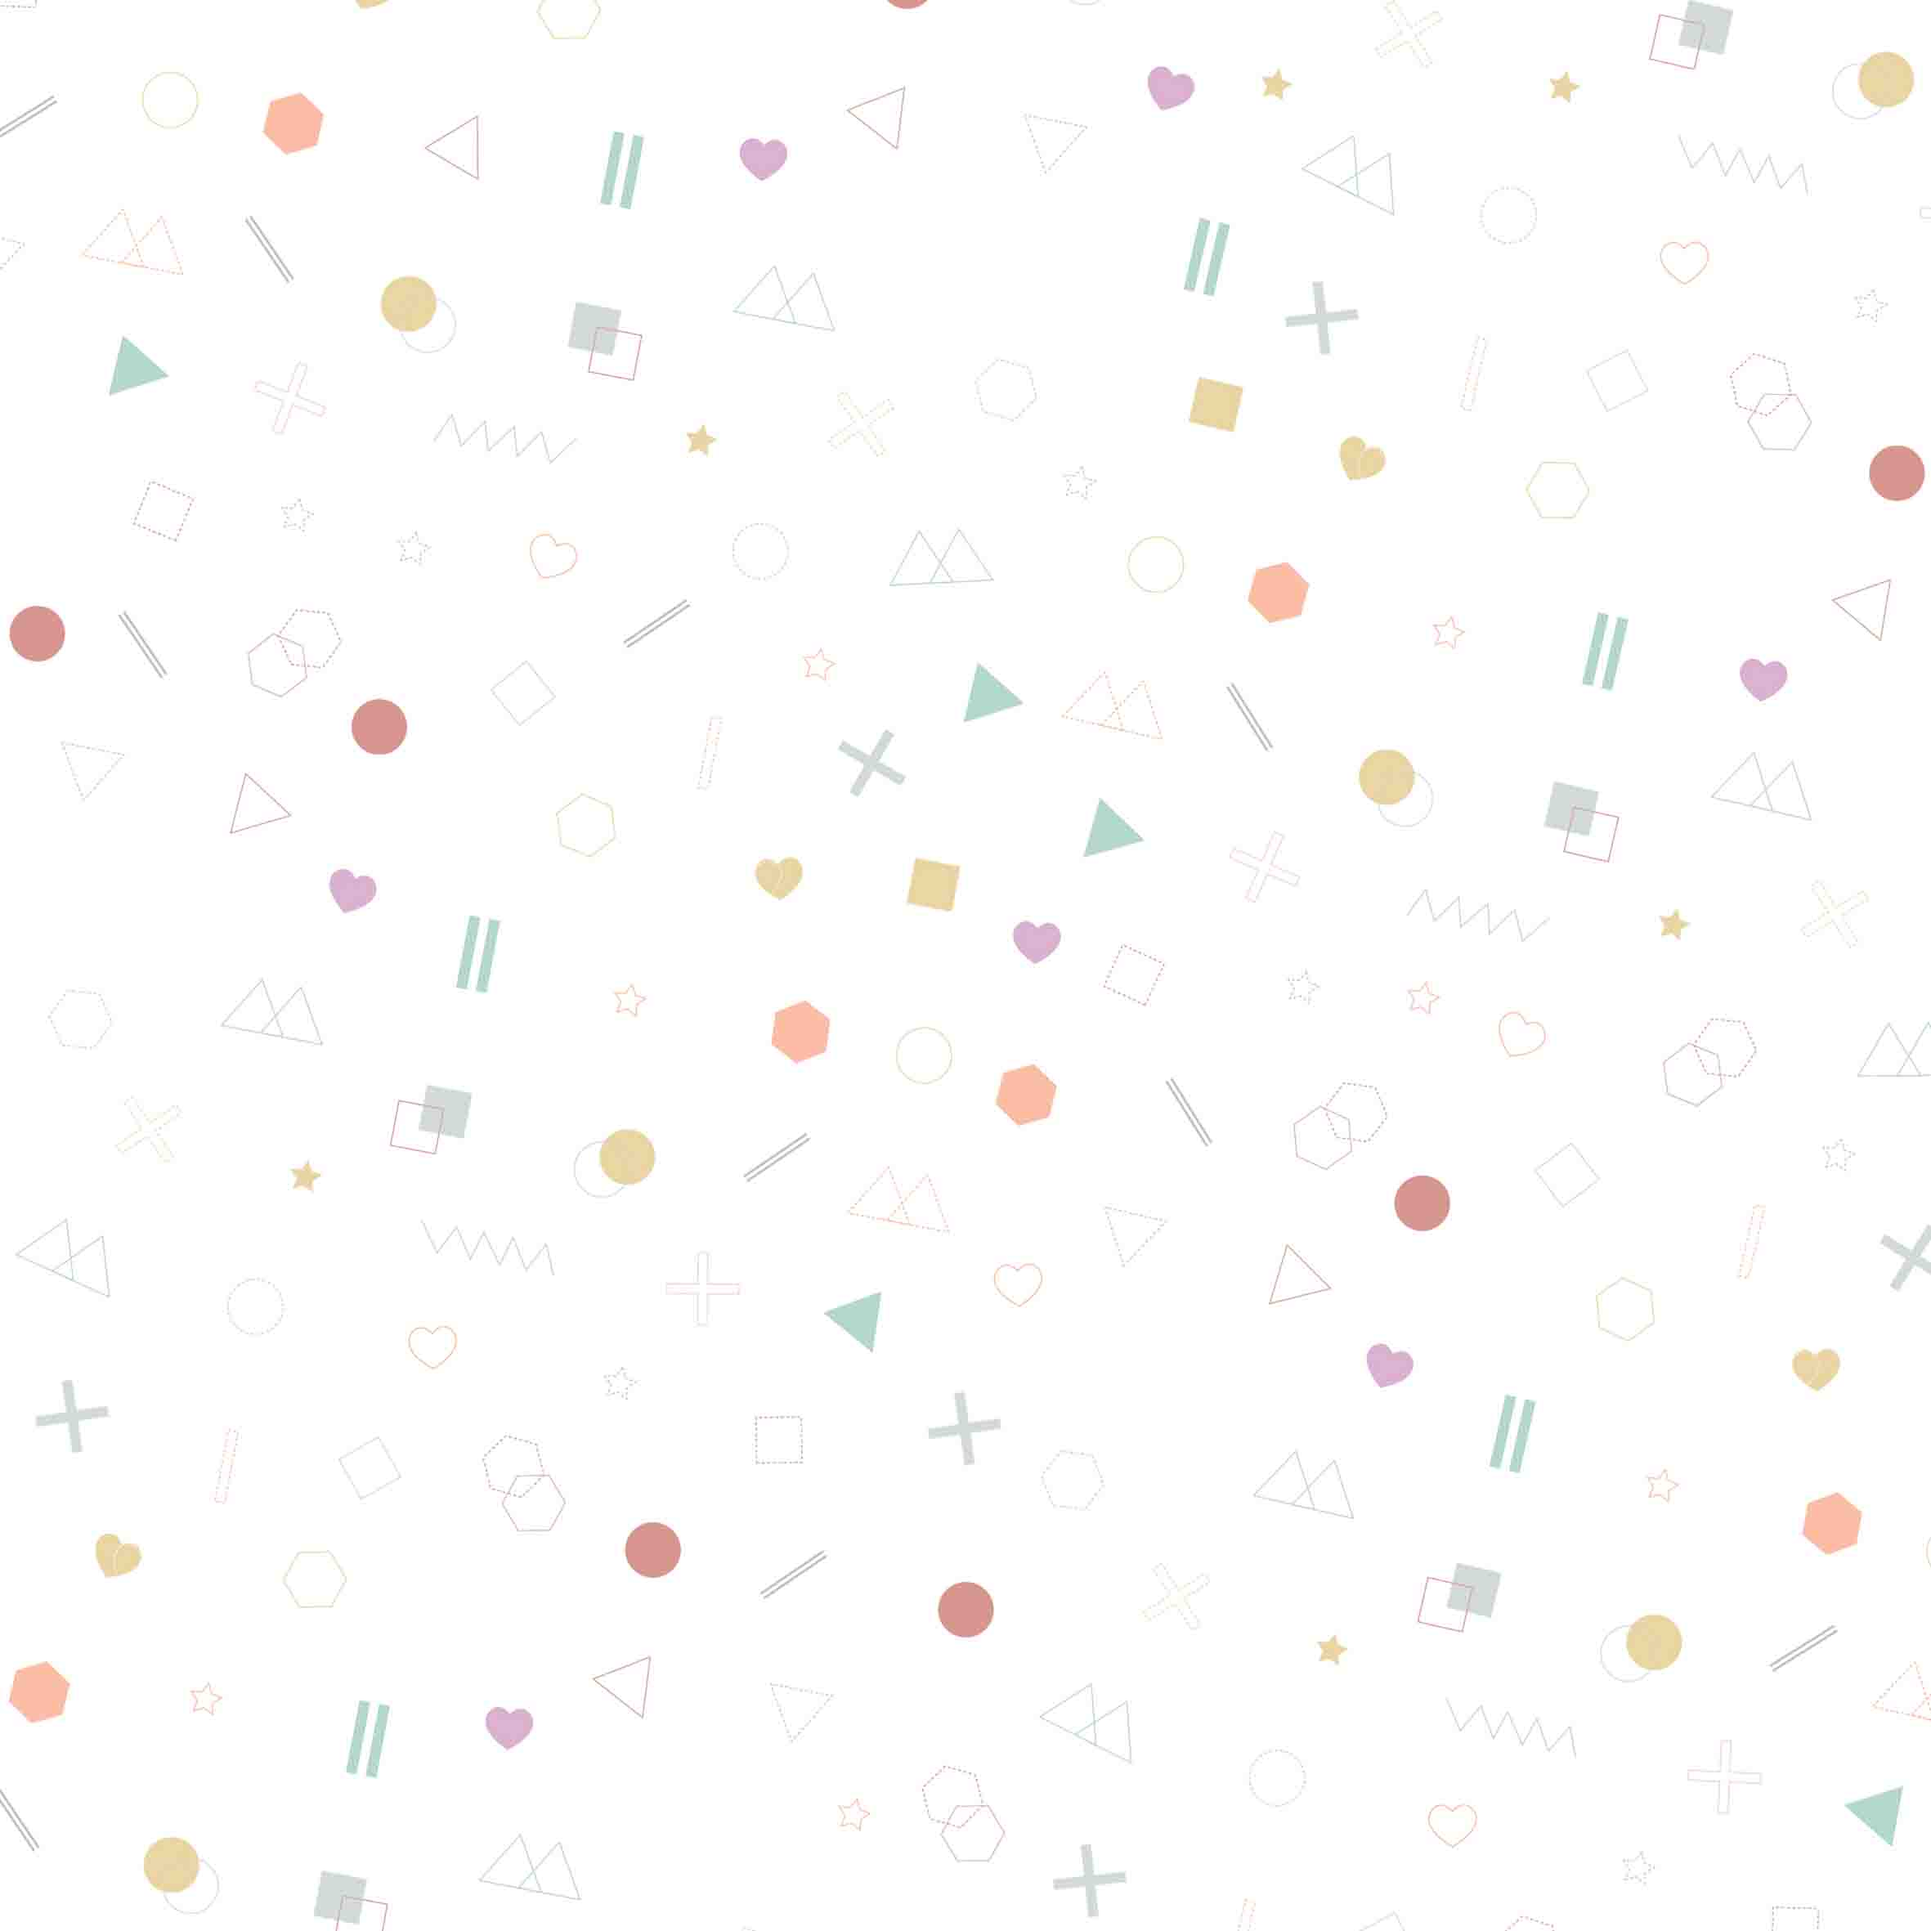
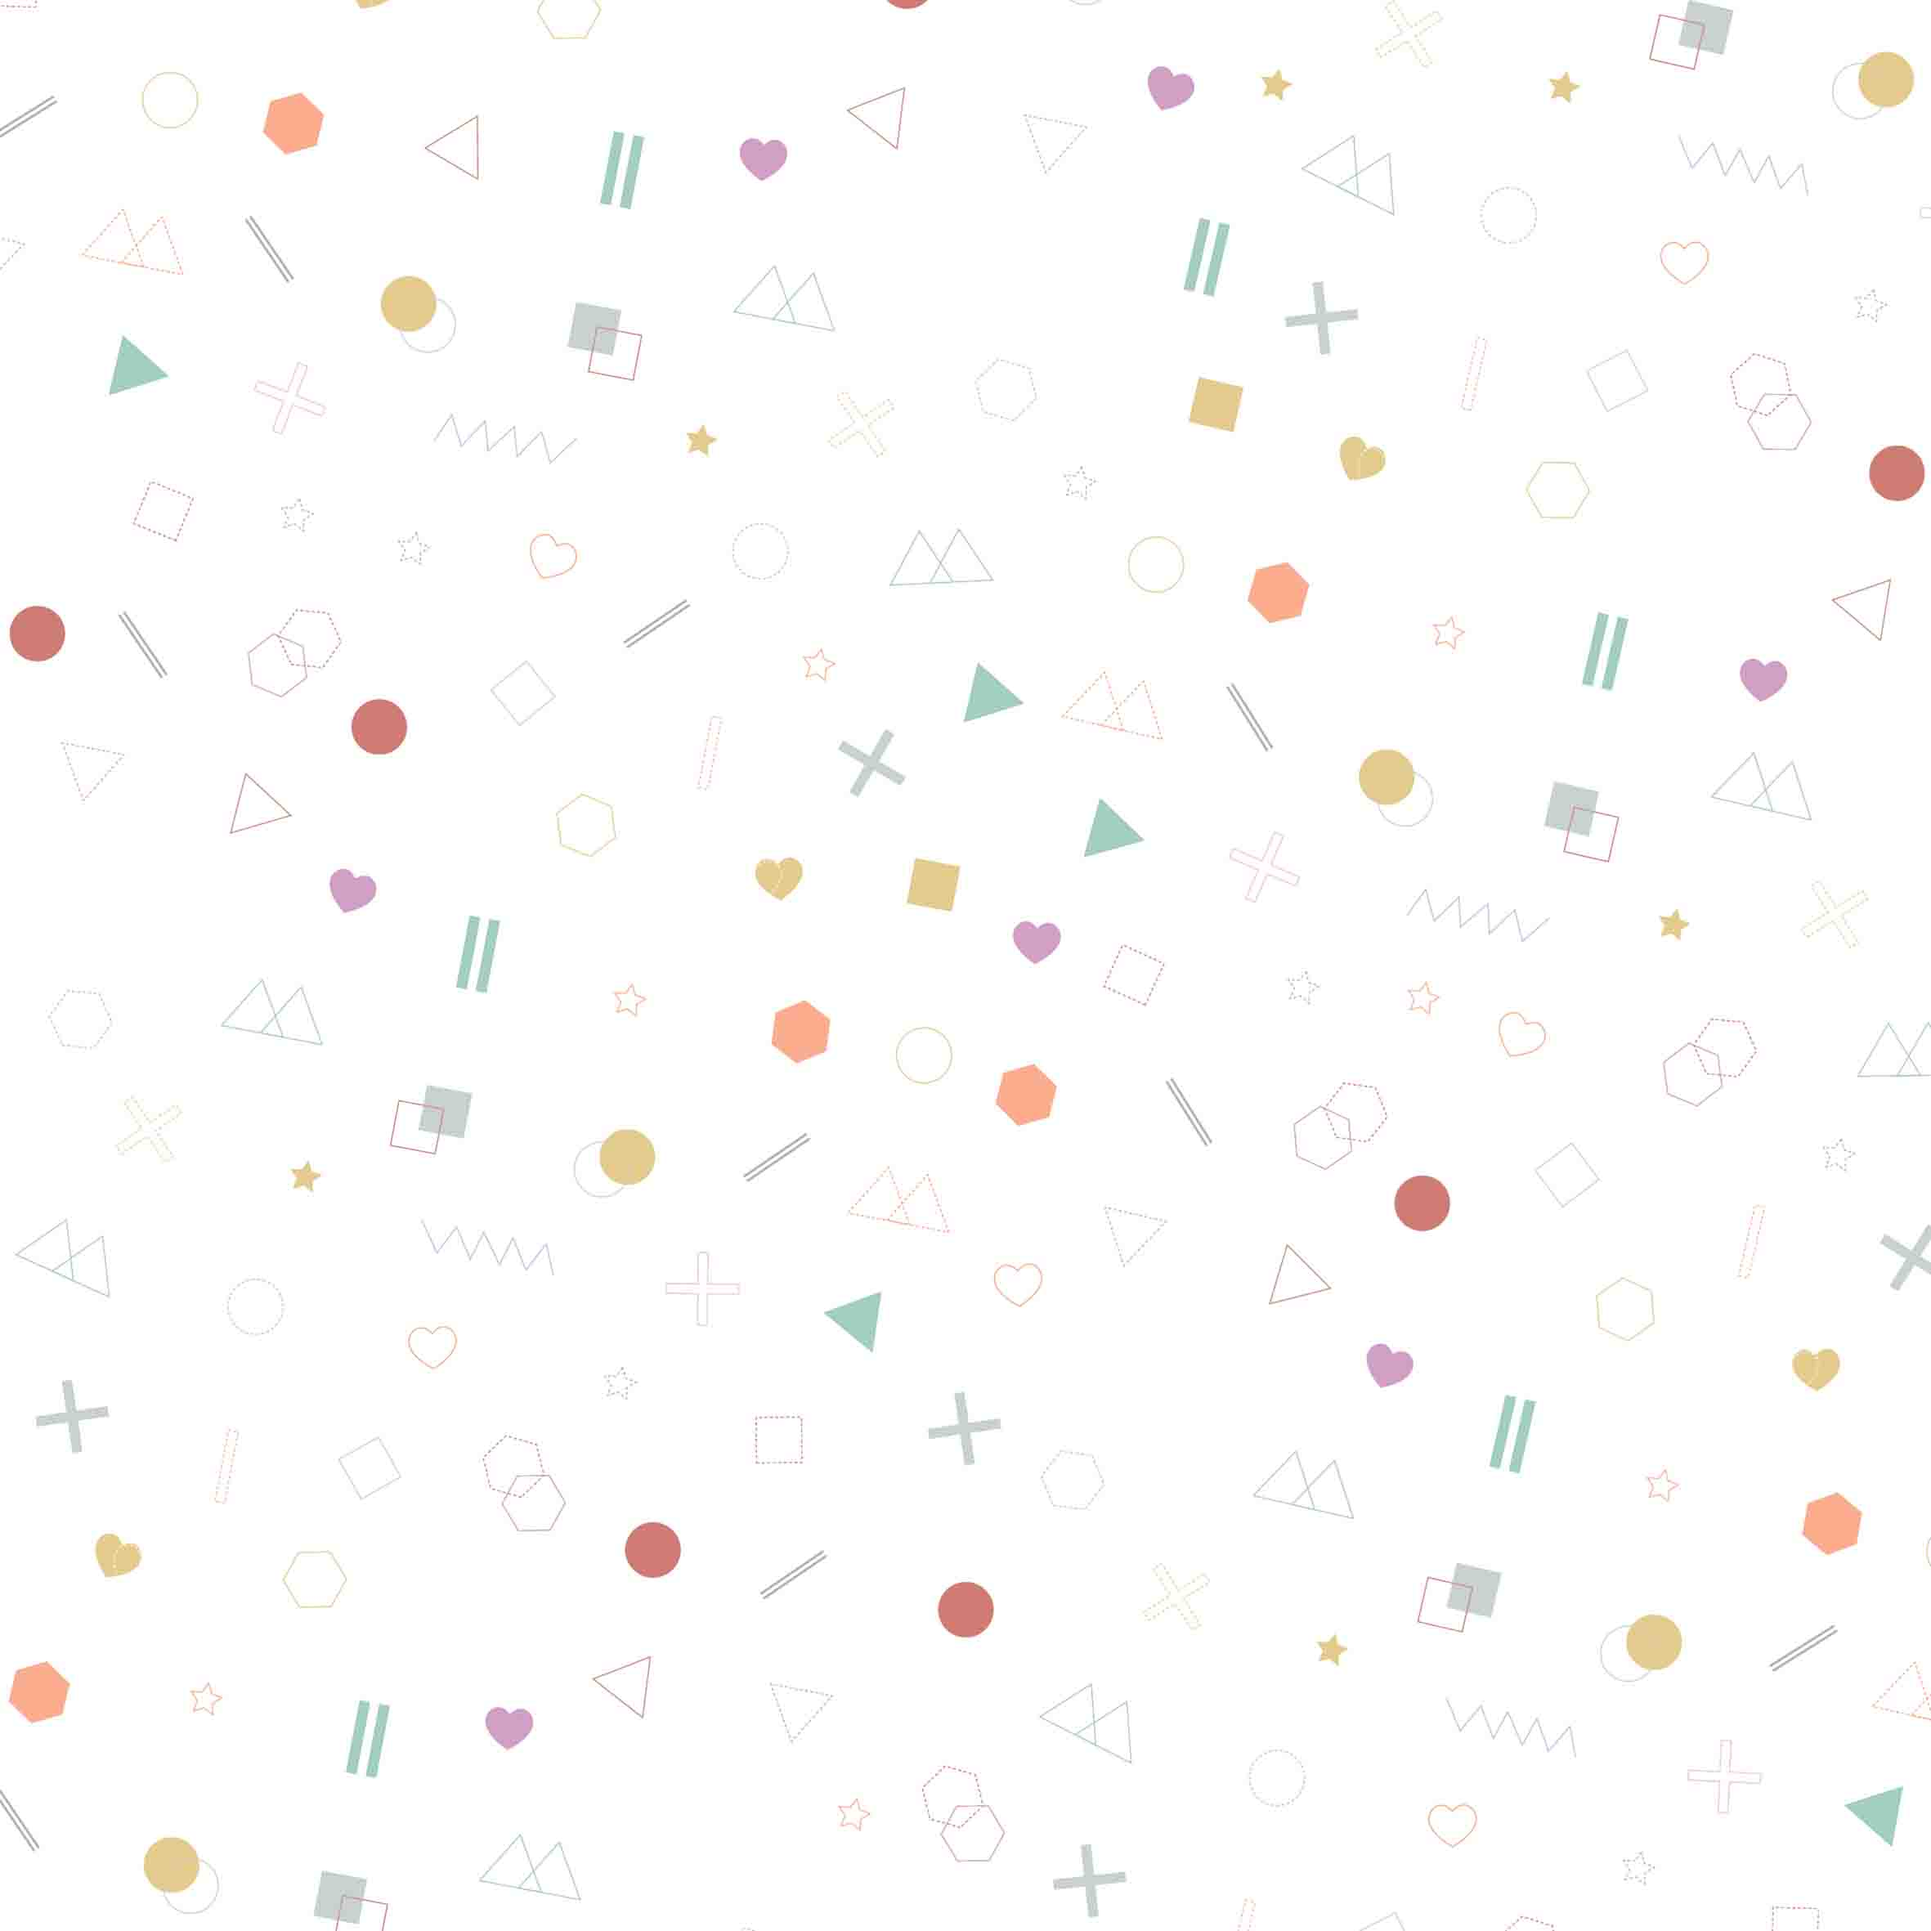
Add files via upload

diff --git a/webcss.css b/webcss.css
@@ -6,7 +6,7 @@ body{
 .full{
     width: 100%;
     height: 100%;
-    background-image: url(images/back.jpg);
+    background-image: url(images/—Pngtree—background\ pattern\ with\ icon\ symbol_1154242.jpg);
     background-size:  100%;
     position: fixed;
     z-index: -1;
@@ -100,8 +100,6 @@ a{
     padding-right: .6em;
     position: relative;
     color: rgb(127, 127, 128);
-    //background-image: linear-gradient(to bottom, rgb(22, 22, 22), rgb(22, 22, 22), rgb(31, 31, 31));
-    //box-shadow: rgb(15, 15, 15) 0px 9px 5px -6px;
 }
 .hmimg{
     display: flex;
@@ -137,15 +135,15 @@ align-items: center;
     margin-top: 1em;
     padding: .6em;
     border-radius: .7em;
-    background-color: rgba(0, 0, 0, 0.055);
+    background-color: #00c3ff2a;
     backdrop-filter: blur(.2em);
 }
 .webimg::before{
 content: "";
 position: absolute;
-background: conic-gradient( #fa339d9c, #3db8f18a, #f8a03491, #36f75683, #f1383881);
-width: 96%;
-height: 96%;
+background: conic-gradient( #fa339dc0, #3db8f1b0, #f8a034be, #36f756b6, #f13838c2);
+width: 97%;
+height: 97%;
 top: .6em;
 border-radius: .7em;
 filter: blur(.4em);
@@ -203,8 +201,8 @@ max-width: 720px;
 margin-left: auto;
 margin-right: auto;
 margin-top: 2em;
-background:linear-gradient(to right, rgba(0, 140, 255, 0.075),rgba(0, 255, 0, 0.075), rgba(255, 0, 242, 0.075));
-backdrop-filter: blur(.2em);
+background-color: #00c3ff2a;
+backdrop-filter: blur(.3em);
 border-radius: .9rem;
 box-shadow: rgba(0, 0, 0, 0.438) 0px 2px 15px -5px;
 transition: 100ms;
@@ -257,18 +255,7 @@ transition: 100ms;
     height: 83%;
     background-color: rgb(243, 135, 220);
 }
-aboutimg::before{
-    content: '';
-    background-image: linear-gradient(319deg, #ff1493 0%, #0000ff 37%, #ff8c00 100%);
-    position: absolute;
-    z-index: -1;
-    top: 0.1em;
-    bottom: 0.1em;
-    left: 0.1em;
-    right: 0.1em;
-    border-radius: .2em;
-    filter: blur(.4em);
-}
+
 .img1
 {
     width: 80%;
@@ -281,7 +268,6 @@ aboutimg::before{
 {
     margin-right: 4%;
     border-radius: .4rem;
-    //box-shadow: rgba(0, 0, 0, 0.199) 5px 5px 5px;
     width: 100%;
     max-width: 150px;
     min-width: 100px;
@@ -290,7 +276,7 @@ aboutimg::before{
 .whovr{
     display: flex;
     position: relative;
-    background:linear-gradient(to right, rgba(0, 140, 255, 0.075),rgba(0, 255, 0, 0.075), rgba(255, 0, 242, 0.075));
+    background-color: #00c3ff2a;
     backdrop-filter: blur(.3em);
     text-align: center;  
     width: 98%;
@@ -300,18 +286,6 @@ aboutimg::before{
     margin-left: auto;
     margin-right: auto;
     margin-top: 2em;
-}
-whovr::before{
-    content: '';
-    background-image: linear-gradient(319deg, #ff1493 0%, #0000ff 37%, #ff8c00 100%);
-    position: absolute;
-    z-index: -1;
-    top: 0.1em;
-    bottom: 0.1em;
-    left: 0.1em;
-    right: 0.1em;
-    border-radius: .2em;
-    filter: blur(.4em);
 }
 .bluehead{
     display: flex;
@@ -347,18 +321,6 @@ whovr::before{
     margin-bottom: 2.7em;
     margin-left: 1em;
     margin-right: 1.5em; 
-}
-whovrtext::before
-{
-    content: '';
-    position: absolute;
-    right:0;
-    margin-top: 1.4em;
-    width: .1em;
-    margin-right: -.04em;
-    height: 70%;
-    background-color: rgb(80, 132, 245);
-    filter: blur(.2em);
 }
 .whovrtext::after
 {
@@ -405,19 +367,16 @@ whovrtext::before
     color:rgb(238, 140, 75);
     font-size: 1.5em;
     letter-spacing: .5em;
-    font-;
-    //font-family:Cambria, Cochin, Georgia, Times, 'Times New Roman', serif;
-    //text-shadow: rgba(0, 0, 0, 0.219) 3px 1px 3px;
 }
 .section2{
     width: 100%;
 }
 .serow1{
     display: flex;
-    font-family: -apple-system, BlinkMacSystemFont, 'Segoe UI', Roboto, Oxygen, Ubuntu, Cantarell, 'Open Sans', 'Helvetica Neue', sans-serif;
-    font-weight: 650;
-    font-size: .9em;
-    color: cornflowerblue;
+    font-weight: 800;
+    font-family: 'Montserrat Alternates', sans-serif;
+    font-size: .8em;
+    color: rgb(0, 0, 0);
     width: 98%;
     max-width: 710px;
     margin-left: auto;
@@ -428,16 +387,16 @@ whovrtext::before
 .serweb{
     position: relative;
     padding: .2em;
-    background-color: rgb(255, 255, 255);
+    background-color: #00c3ff2a;
+    backdrop-filter: blur(.3em);
     box-shadow: rgba(0, 0, 0, 0.192) 0px 0px 12px;
     text-align: center;
     border-radius: .5em;
 }
 .serweb:hover{
-    cursor: pointer;
-    box-shadow: #00b7ff 0px 0px 5px 3px;
+    background-color: #00c3ff59;
 }
-.serweb::before{
+serweb::before{
     content: '';
     background-image: linear-gradient(319deg, #ff1493 0%, #0000ff 37%, #ff8c00 100%);
     position: absolute;
@@ -454,7 +413,8 @@ whovrtext::before
 .sercon{
     position: relative;
     text-align: center;
-    background-color: rgb(255, 255, 255);
+    background-color: #00c3ff2a;
+    backdrop-filter: blur(.3em);
     box-shadow: rgba(0, 0, 0, 0.192) 0px 0px 12px;
     border-radius: .5em;
     align-items: center;
@@ -468,10 +428,9 @@ whovrtext::before
     padding-right: 3rem;
 }
 .sercon:hover{
-    cursor: pointer;
-    box-shadow: #00b7ff 0px 0px 5px 3px;
+    background-color: #00c3ff59;
 }
-.sercon::before{
+sercon::before{
     content: '';
     background-image: linear-gradient(319deg, #ff1493 0%, #0000ff 37%, #ff8c00 100%);
     position: absolute;
@@ -487,7 +446,8 @@ whovrtext::before
 .sersoc{
     position: relative;
     padding: .1em;
-    background-color: white;
+    background-color: #00c3ff2a;
+    backdrop-filter: blur(.3em);
     box-shadow: rgba(0, 0, 0, 0.192) 0px 0px 12px;
     border-radius: .5em;
     text-align: center;
@@ -499,10 +459,9 @@ whovrtext::before
 
 }
 .sersoc:hover{
-    cursor: pointer;
-    box-shadow: #00b7ff 0px 0px 5px 3px;
+    background-color: #00c3ff59;
 }
-.sersoc::before{
+sersoc::before{
     content: '';
     background-image: linear-gradient(319deg, #ff1493 0%, #0000ff 37%, #ff8c00 100%);
     position: absolute;
@@ -518,10 +477,10 @@ whovrtext::before
 .serow2{
     display: flex;
     justify-content: space-around;
-    font-family: -apple-system, BlinkMacSystemFont, 'Segoe UI', Roboto, Oxygen, Ubuntu, Cantarell, 'Open Sans', 'Helvetica Neue', sans-serif;
-    font-weight: 650;
-    font-size: .9em;
-    color: cornflowerblue;
+    font-weight: 800;
+    font-family: 'Montserrat Alternates', sans-serif;
+    font-size: .8em;
+    color: rgb(0, 0, 0);
     width: 98%;
     max-width: 710px;
     margin-left: auto;
@@ -533,7 +492,8 @@ whovrtext::before
 .serblog{
     position: relative;
     text-align: center;
-    background-color: rgb(255, 255, 255);
+    background-color: #00c3ff2a;
+    backdrop-filter: blur(.3em);
     box-shadow: rgba(0, 0, 0, 0.192) 0px 0px 12px;
     padding-top:  .25em;
     padding-left: .6em;
@@ -546,10 +506,9 @@ whovrtext::before
     margin-right: 2.4em;
 }
 .serblog:hover{
-    cursor: pointer;
-    box-shadow: #00b7ff 0px 0px 5px 3px;
+    background-color: #00c3ff59;
 }
-.serblog::before{
+serblog::before{
     content: '';
     background-image: linear-gradient(319deg, #ff1493 0%, #0000ff 37%, #ff8c00 100%);
     position: absolute;
@@ -576,7 +535,7 @@ whovrtext::before
     width: 1.9em;
 }
 .gotop a{
-    padding:
+    user-select: none;
 }
 .gotop:hover{
     background-color: rgba(125, 126, 126, 0.973);}
@@ -585,7 +544,8 @@ whovrtext::before
     padding-top: .2em;
     padding-left: 0;
     padding-right: 0%;
-    background-color: white;
+    background-color: #00c3ff2a;
+    backdrop-filter: blur(.3em);
     box-shadow: rgba(0, 0, 0, 0.192) 0px 0px 12px;
     border-radius: .5em;
     text-align: center;
@@ -595,7 +555,7 @@ whovrtext::before
     margin-left: 2.4em;
     margin-right: 2.4em;
 }
-.serpost::before{
+serpost::before{
     content: '';
     background-image: linear-gradient(319deg, #ff1493 0%, #0000ff 37%, #ff8c00 100%);
     position: absolute;
@@ -609,12 +569,11 @@ whovrtext::before
 
 }
 .serpost:hover{
-    cursor: pointer;
-    box-shadow: #00b7ff 0px 0px 5px 3px;
+    background-color: #00c3ff59;
 }
 @media all and (max-width: 800px){
     .full{
-        background-size: 200%;
+        background-size: 250%;
     }
     .aboutimg{
         display: flex;
@@ -715,12 +674,4 @@ whovrtext::before
         margin-bottom: 5%;
     }
     }
-media all and (max-width: 430px){
-    .bar{
-        width: 45.7em;   
-    }
-    .navi{
-        width: 45.0245em;
-    }
-}
 

diff --git a/Webgyor.html b/Webgyor.html
@@ -10,13 +10,13 @@
 </head>
 <body>
     <div class="full"></div>
-        <div id="top" class="bar">
+        <div class="bar">
             <img class="gif" src="images/My-Video1.gif" alt="">
         </div>    
 
 
 
-    <div class="navi">
+    <div  id="top" class="navi">
         <nav>
             <ul>
                 <li>
@@ -74,7 +74,7 @@
     <section class="section2">
         <div class="serow1">
             <div class="serweb">
-               <div class="serwebimg"><img src="images/serweb.gif" alt="" width="150px" height="80px"></div>
+               <div class="serwebimg"><img src="images/website-developer-in-gurgaon-gurugram.gif" alt="" width="150px" height="80px"></div>
                 <div class="serwebtext"><p>Web <br>Development</p></div>
             </div>
             <div class="sercon">
@@ -82,18 +82,18 @@
                 <p>Content Writing</p>
             </div>
             <div class="sersoc">
-                <img src="images/sersoc.gif" alt="" width="140px" height="70px">
+                <img src="images/371903520_SOCIAL_ICONS_TRANSPARENT_400px.gif" alt="" width="130px" height="90px">
                 <p>Social Media <br>Managment</p>
             </div>
         </div>
         <div class="serow2">
             
          <div class="serblog">
-             <img src="images/serblog.gif" alt="" width="130px" height="110px">
+             <img src="images/create-animated-gif-icon-banner-ads-for-website-9e3d.gif" alt="" width="150px" height="150px">
              <p>Blogs and <br>Articles</p>
          </div>
          <div class="serpost">
-            <img src="images/serpost.gif" alt="" width="150px" height="130px">
+            <img src="images/serpost.gif" alt="" width="150px" height="150px">
             <p>Campaigns <br>& <br> Posters</p>
         </div>
         </div>
